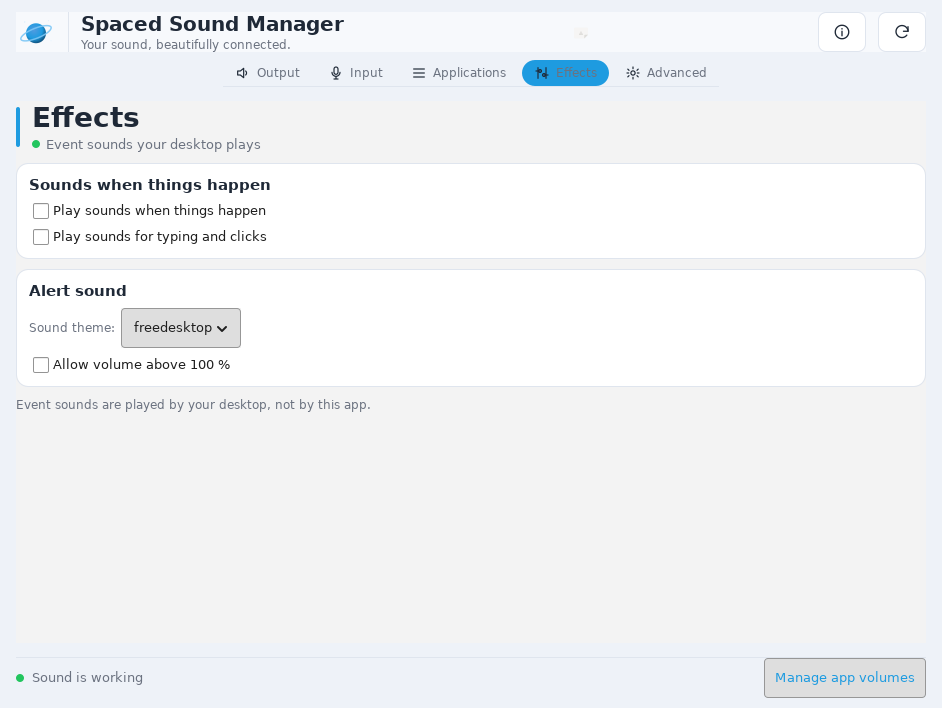
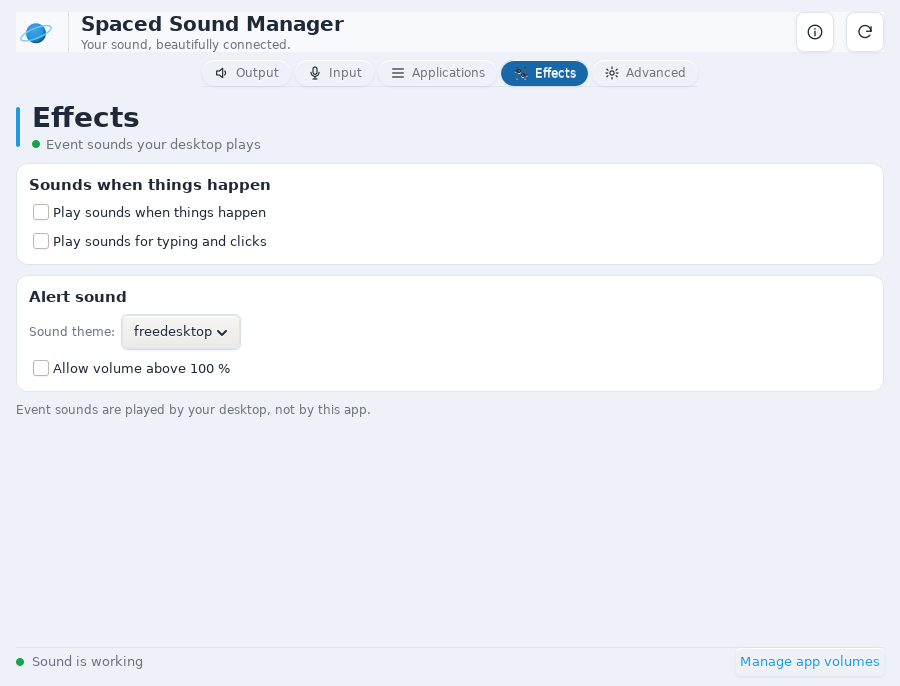
Sound Manager: family navy tokens + the 11.26.4 review fixes S1-S7 (issue 426)
Drop the broken band-art SVG, short device name with the detail on its own
line, hide the make-default button on the default card, a Volume label and a
percent pill, navy tabs/pills/combo/footer via spaced_family_style, plus a
WCAG contrast test and a navy-not-grey screenshot test.

diff --git a/overlays/usr/lib/spaced-linux/spaced-sound-manager.py b/overlays/usr/lib/spaced-linux/spaced-sound-manager.py
@@ -39,6 +39,7 @@ sys.path.insert(0, "/usr/lib/spaced-linux")
 sys.path.insert(0, _HERE)
 import spaced_sound  # noqa: E402
 from spaced_sound import Backend, Device  # noqa: E402
+import spaced_family_style as family  # noqa: E402
 
 # Icons/logo live beside the install prefix: usr/share/spaced-sound-manager when
 # installed, overlays/usr/share/spaced-sound-manager when run from a source tree.
@@ -61,60 +62,31 @@ KIND_ICON = {
 
 
 # --------------------------------------------------------------- colour tokens
-def _hex(h):
-    h = h.lstrip("#")
-    return tuple(int(h[i:i + 2], 16) / 255 for i in (0, 2, 4))
-
-
-@dataclass(frozen=True)
-class Palette:
-    """The family tokens, defined once (FAMILY-LOOK.md 'Colours and theme')."""
-
-    bg: tuple
-    band: tuple
-    card: tuple
-    border: tuple
-    text: tuple
-    muted: tuple
-    accent: tuple
-    ok: tuple
-    warn: tuple
-    ai: tuple
-    off: tuple
-    meter_track: tuple
-    level_start: tuple
-    level_mid: tuple
-    level_peak: tuple
-
-
-DARK = Palette(
-    bg=_hex("#0b1220"), band=_hex("#0b1220"), card=_hex("#111a2e"),
-    border=_hex("#1e2a44"), text=_hex("#e6ecf5"), muted=_hex("#8a96ab"),
-    accent=_hex("#1e9be0"), ok=_hex("#22c55e"), warn=_hex("#f59e0b"),
-    ai=_hex("#8b5cf6"), off=_hex("#4b5563"), meter_track=_hex("#1e2a44"),
-    level_start=_hex("#22c55e"), level_mid=_hex("#f59e0b"),
-    level_peak=_hex("#ef4444"),
-)
-LIGHT = Palette(
-    bg=_hex("#eef2f8"), band=_hex("#f7f9fc"), card=_hex("#ffffff"),
-    border=_hex("#dfe5ee"), text=_hex("#1f2937"), muted=_hex("#6b7280"),
-    accent=_hex("#1e9be0"), ok=_hex("#22c55e"), warn=_hex("#f59e0b"),
-    ai=_hex("#8b5cf6"), off=_hex("#9ca3af"), meter_track=_hex("#e5e7eb"),
-    level_start=_hex("#22c55e"), level_mid=_hex("#f59e0b"),
-    level_peak=_hex("#ef4444"),
-)
+# The navy family tokens live in spaced_family_style so the GPU and Sound
+# managers never drift; Palette/DARK/LIGHT are that module's. Palette carries
+# bg (window), meter_track and the level_* colours this app reads.
+Palette = family.Palette
+DARK = family.DARK
+LIGHT = family.LIGHT
 
 
 def _css_colour(c):
-    return "#{:02x}{:02x}{:02x}".format(*(int(x * 255) for x in c))
+    return family.css_colour(c)
+
+
+def _rgba(c, a):
+    return family.rgba(c, a)
 
 
 def css(pal: Palette) -> str:
     p = {k: _css_colour(getattr(pal, k)) for k in
-         ("bg", "band", "card", "border", "text", "muted", "accent", "ok",
-          "warn", "ai", "off")}
+         ("bg", "band", "card", "border", "text", "muted", "accent",
+          "accent_ink", "ok", "warn", "ai", "off")}
     return f"""
 window, .background {{ background-color: {p['bg']}; color: {p['text']}; }}
+/* One navy page background behind the heading and cards (issue #429 review,
+   S3): the stack/box paint the family bg, never the GTK theme's grey base. */
+stack, stack > box, box.page {{ background-color: {p['bg']}; }}
 .band {{ background-color: {p['band']}; }}
 .band-title {{ font-weight: bold; font-size: 20px; color: {p['text']}; }}
 .band-tagline {{ font-size: 12px; color: {p['muted']}; }}
@@ -128,14 +100,20 @@ button.tab {{ background-color: transparent; background-image: none;
   border: none; border-radius: 999px; color: {p['muted']};
   padding: 5px 12px; min-height: 0; }}
 button.tab:hover {{ color: {p['text']}; }}
-button.tab.active {{ background-color: {p['accent']}; color: #ffffff; }}
+button.tab label {{ color: {p['muted']}; }}
+/* Active tab: a filled accent pill with white text (issue #429 review, S1).
+   The label follows the button colour, so it is never muted-on-accent. The
+   fill is the darker accent_ink so white text clears WCAG 4.5. */
+button.tab.active {{ background-color: {p['accent_ink']}; color: #ffffff; }}
+button.tab.active label {{ color: #ffffff; }}
 .page-title {{ font-weight: bold; font-size: 28px; color: {p['text']}; }}
 .page-sub {{ font-size: 13px; color: {p['muted']}; }}
 .accent-bar {{ background-color: {p['accent']}; min-width: 4px;
   border-radius: 2px; }}
 .card {{ background-color: {p['card']}; border: 1px solid {p['border']};
   border-radius: 12px; padding: 12px; color: {p['text']}; }}
-.card.primary {{ border: 1px solid {p['accent']}; }}
+.card.primary {{ border: 1px solid {p['accent']};
+  box-shadow: 0 0 14px {_rgba(pal.accent, 0.35)}; }}
 .divider {{ background-color: {p['border']}; min-height: 1px; }}
 .vdiv {{ background-color: {p['border']}; min-width: 1px; }}
 .dev-name {{ font-weight: bold; font-size: 22px; color: {p['text']}; }}
@@ -143,29 +121,42 @@ button.tab.active {{ background-color: {p['accent']}; color: #ffffff; }}
 .detail {{ font-size: 12px; color: {p['muted']}; }}
 .raw {{ font-size: 11px; color: {p['muted']}; font-style: italic; }}
 .small-label {{ font-size: 11px; color: {p['muted']}; }}
-.pill {{ border-radius: 999px; padding: 2px 10px; font-size: 11px; }}
-.pill.ok {{ background-color: {p['ok']}; color: #06281a; }}
-.pill.warn {{ background-color: {p['warn']}; color: #3a2400; }}
-.pill.off {{ background-color: {p['off']}; color: #ffffff; }}
-.pill.ai {{ background-color: {p['ai']}; color: #ffffff; }}
+/* Status pills: tinted translucent fill + coloured border + the theme text
+   colour (issue #429 review, S1) - never solid colour-on-same-colour, which is
+   how "Default output" came out green-on-green. */
+.pill {{ border-radius: 999px; padding: 2px 10px; font-size: 11px;
+  color: {p['text']}; }}
+.pill label {{ color: {p['text']}; }}
+.pill.ok {{ background-color: {_rgba(pal.ok, 0.18)}; border: 1px solid {p['ok']}; }}
+.pill.warn {{ background-color: {_rgba(pal.warn, 0.18)}; border: 1px solid {p['warn']}; }}
+.pill.off {{ background-color: {_rgba(pal.off, 0.20)}; border: 1px solid {p['off']}; }}
+.pill.ai {{ background-color: {_rgba(pal.ai, 0.20)}; border: 1px solid {p['ai']}; }}
+.pill.value {{ background-color: {p['card']}; border: 1px solid {p['border']}; }}
 .footer {{ border-top: 1px solid {p['border']}; }}
 .dot-ok {{ background-color: {p['ok']}; min-width: 8px; min-height: 8px;
   border-radius: 50%; }}
 .dot-warn {{ background-color: {p['warn']}; min-width: 8px; min-height: 8px;
   border-radius: 50%; }}
-.link {{ color: {p['accent']}; }}
+/* Footer link (issue #429 review, S7): accent text, no grey box. */
+button.link {{ background-color: transparent; background-image: none;
+  border: none; color: {p['accent']}; padding: 2px 4px; }}
+button.link:hover {{ background-color: transparent; color: {p['accent']}; }}
 button.outline {{ border: 1px solid {p['border']}; border-radius: 8px;
   background-image: none; background-color: {p['card']}; color: {p['text']};
   padding: 4px 10px; min-height: 0; }}
 button.primary {{ border: none; border-radius: 8px; background-image: none;
-  background-color: {p['accent']}; color: #ffffff; padding: 4px 12px;
+  background-color: {p['accent_ink']}; color: #ffffff; padding: 4px 12px;
   min-height: 0; }}
 list, row {{ background-color: {p['card']}; color: {p['text']}; border: none; }}
+combobox, combobox button {{ background-color: {p['card']}; color: {p['text']};
+  border: 1px solid {p['border']}; border-radius: 6px; }}
+combobox window, combobox row, combobox list {{ background-color: {p['card']};
+  color: {p['text']}; }}
 """
 
 
 def resolve_palette(name: str) -> Palette:
-    return DARK if name == "dark" else LIGHT
+    return family.palette_for(name == "dark")
 
 
 # ------------------------------------------------------------------ widgets
@@ -293,6 +284,15 @@ def _status_pill(text, kind):
     return box
 
 
+def _value_pill(text):
+    """A small neutral pill for a value such as the volume percentage (S6)."""
+    box = Gtk.Box()
+    box.get_style_context().add_class("pill")
+    box.get_style_context().add_class("value")
+    box.pack_start(_lbl(text, "detail"), False, False, 0)
+    return box
+
+
 # ------------------------------------------------------------------ the app
 class SoundManager:
     def __init__(self, backend: Backend, pal: Palette, preview=False):
@@ -352,11 +352,13 @@ class SoundManager:
                        False, False, 0)
         band.pack_start(col, False, False, 0)
 
-        # faint space art fades into the band (FAMILY-LOOK §1)
-        art = _art_image()
-        art.set_hexpand(True)
-        art.set_valign(Gtk.Align.CENTER)
-        band.pack_start(art, True, True, 0)
+        # The faint space art is drawn by the band's own navy colour
+        # (FAMILY-LOOK §1: "a pure gradient if simpler"). A shipped SVG here
+        # rendered as a broken white image in the middle of the header (issue
+        # #429 review, S2), so the band keeps just the navy fill.
+        spacer = Gtk.Box()
+        spacer.set_hexpand(True)
+        band.pack_start(spacer, True, True, 0)
 
         info = _line_icon(self.pal, "info", 18)
         info_btn = Gtk.Button()
@@ -610,13 +612,17 @@ class SoundManager:
 
         mid = Gtk.Box(orientation=Gtk.Orientation.VERTICAL, spacing=4)
         name_row = Gtk.Box(orientation=Gtk.Orientation.HORIZONTAL, spacing=8)
-        name_row.pack_start(_lbl(d.friendly, "dev-name"), False, False, 0)
+        # The big-card name is the short device name; the "(HDMI on RTX 4070
+        # Ti SUPER)" tail lives on the detail line instead, so the name no
+        # longer repeats the detail (issue #429 review, S4).
+        short = d.friendly.split(" (")[0]
+        name_row.pack_start(_lbl(short, "dev-name"), False, False, 0)
         pill = self._pill_for(d)
         if pill is not None:
             name_row.pack_start(pill, False, False, 0)
         mid.pack_start(name_row, False, False, 0)
         if d.icon_kind == "hdmi_output" and getattr(d, "gpu", ""):
-            detail = "HDMI audio · %s" % d.gpu
+            detail = "HDMI audio \u00b7 %s" % d.gpu
         else:
             detail = d.detail
         mid.pack_start(_lbl(detail, "detail"), False, False, 0)
@@ -631,16 +637,17 @@ class SoundManager:
         head.pack_start(meter_col, False, False, 0)
         card.pack_start(head, False, False, 0)
 
-        # mute button + volume slider + percent pill
+        # mute button + "Volume" label + slider + percent pill (issue #429
+        # review, S6).
         vol_row = Gtk.Box(orientation=Gtk.Orientation.HORIZONTAL, spacing=8)
         mute = Gtk.Button()
         mute.add(_line_icon(self.pal, "mute" if d.muted else "unmute", 16))
         mute.get_style_context().add_class("outline")
         mute.connect("clicked", self._toggle_mute, d.raw)
+        vol_row.pack_start(_lbl("Volume", "small-label"), False, False, 0)
         vol_row.pack_start(mute, False, False, 0)
         vol_row.pack_start(_scale(d.volume), True, True, 0)
-        vol_row.pack_start(_lbl("%d%%" % d.volume, "small-label"), False,
-                           False, 0)
+        vol_row.pack_start(_value_pill("%d%%" % d.volume), False, False, 0)
         card.pack_start(vol_row, False, False, 0)
 
         if d.ports:
@@ -666,11 +673,14 @@ class SoundManager:
         dev_btn = Gtk.Button(label="Device settings")
         dev_btn.get_style_context().add_class("outline")
         actions.pack_start(dev_btn, False, False, 0)
-        make = Gtk.Button(
-            label="Make this the one apps use" if not d.is_input
-            else "Make this the one apps record from")
-        make.get_style_context().add_class("primary")
-        actions.pack_end(make, False, False, 0)
+        # The default card already IS the one apps use, so it does not offer to
+        # make itself the default (issue #429 review, S5).
+        if not d.is_default:
+            make = Gtk.Button(
+                label="Make this the one apps use" if not d.is_input
+                else "Make this the one apps record from")
+            make.get_style_context().add_class("primary")
+            actions.pack_end(make, False, False, 0)
         card.pack_start(actions, False, False, 0)
         return card
 

diff --git a/tests/test_sound_manager.py b/tests/test_sound_manager.py
@@ -187,5 +187,49 @@ class RenderedScreensTests(unittest.TestCase):
         self.assertGreaterEqual(count, 10)
 
 
+class WcagContrastTests(unittest.TestCase):
+    """FAMILY-LOOK item 5: every painted text/fill pair must clear WCAG AA.
+
+    The concrete colours come from spaced_family_style so the CSS and this test
+    can never drift apart. Both the dark and light family palettes are checked.
+    """
+
+    def test_pills_and_tabs_clear_45(self):
+        import spaced_family_style as family
+        for dark in (True, False):
+            pal = family.palette_for(dark)
+            for name, text, fill in family.contrast_pairs(pal):
+                ratio = family.contrast_ratio(text, fill)
+                self.assertGreaterEqual(
+                    ratio, 4.5,
+                    "%s in %s palette: %.2f < 4.5" % (
+                        name, "dark" if dark else "light", ratio))
+
+
+class RenderedScreensNavyTests(unittest.TestCase):
+    """The screens must be the navy family, never a grey desktop theme."""
+
+    SCREENS = (ROOT / "docs/design/sound-manager/screens-11264")
+
+    def test_dark_is_navy_light_is_not_grey(self):
+        try:
+            from PIL import Image
+        except ImportError:
+            self.skipTest("PIL not available")
+        dark = self.SCREENS / "output-spaced-dark.png"
+        light = self.SCREENS / "output-light.png"
+        if not (dark.is_file() and light.is_file()):
+            self.skipTest("run render-screens-11264.sh first")
+        dim = Image.open(dark).convert("RGB")
+        # page background (top-left) must be blue-dominant navy, not grey
+        r, g, b = dim.getpixel((8, 8))
+        self.assertGreater(b, r + 8, "dark page is not navy: %s" % ((r, g, b),))
+        lim = Image.open(light).convert("RGB")
+        r, g, b = lim.getpixel((8, 8))
+        self.assertGreater(r, 200, "light page is not light: %s" % ((r, g, b),))
+        self.assertGreater(b, r + 2, "light page is not cool navy: %s"
+                           % ((r, g, b),))
+
+
 if __name__ == "__main__":
     unittest.main()
